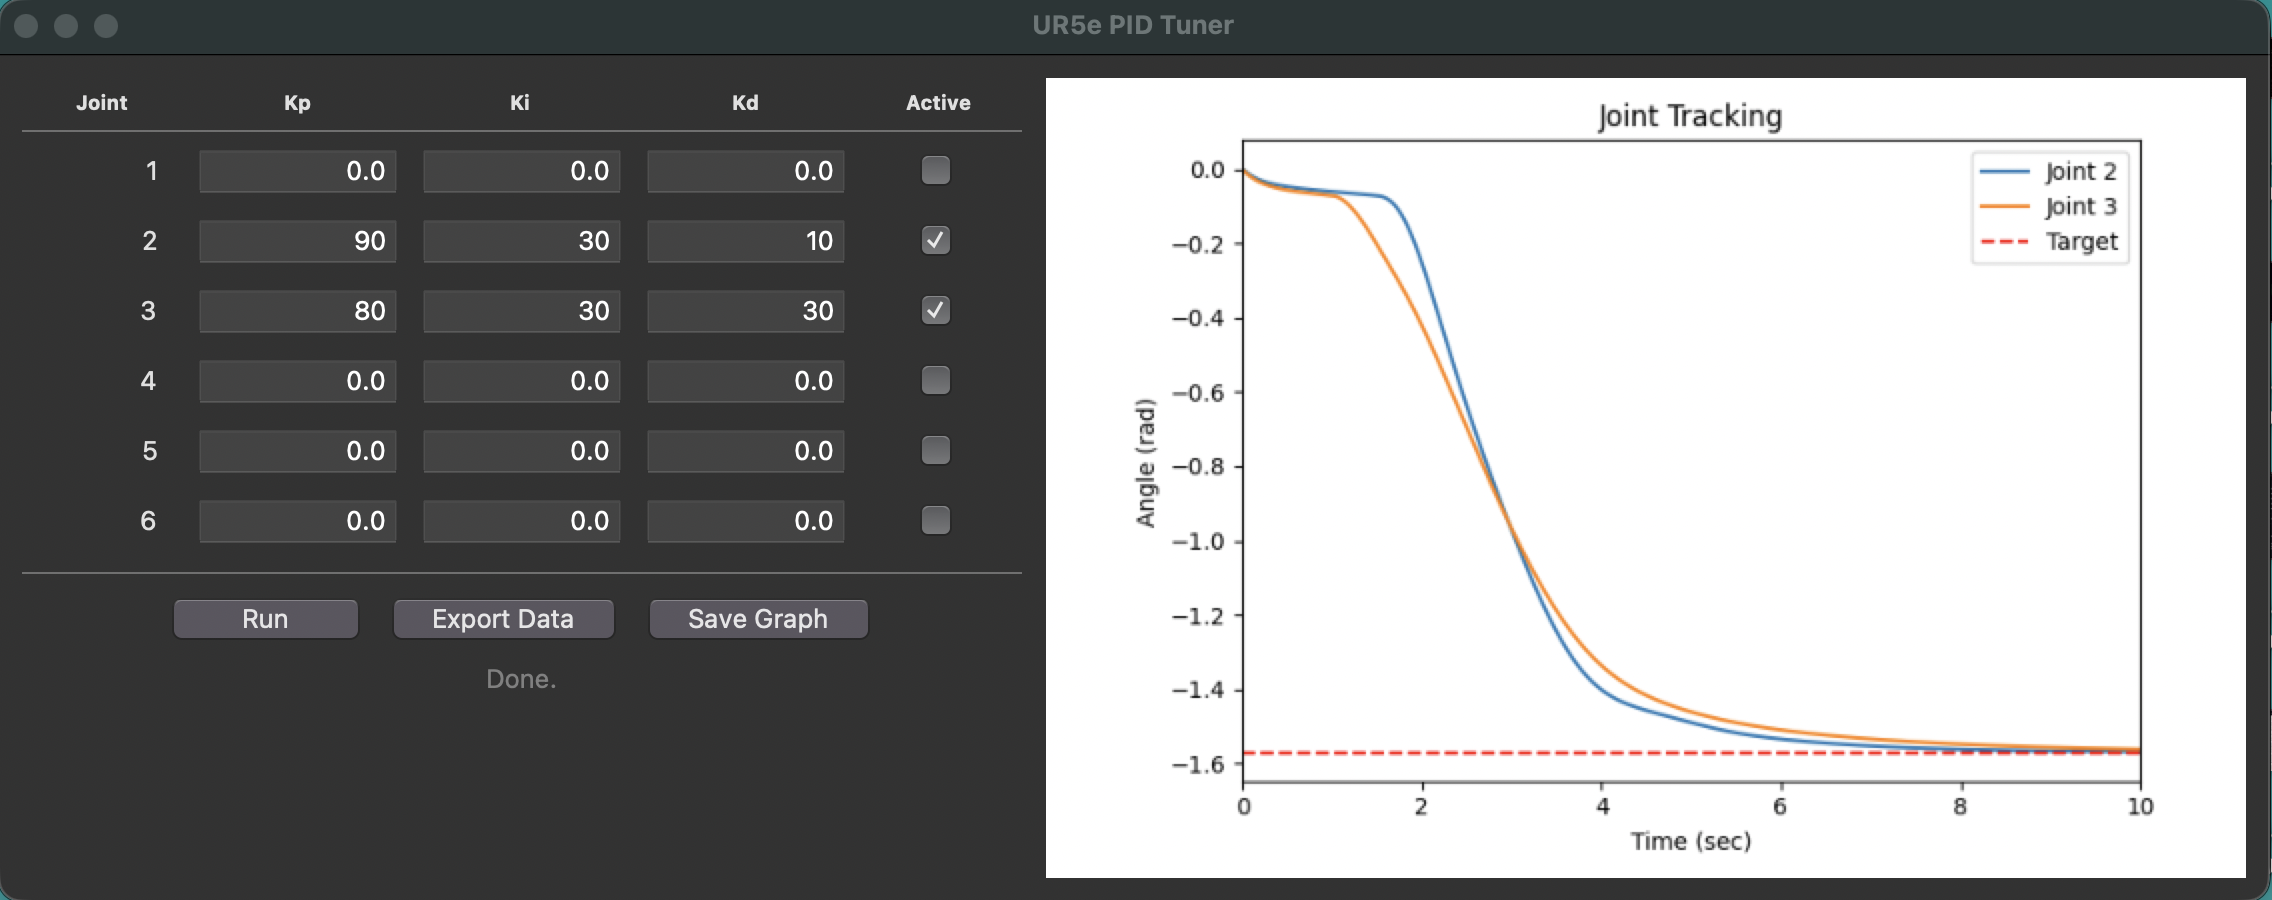
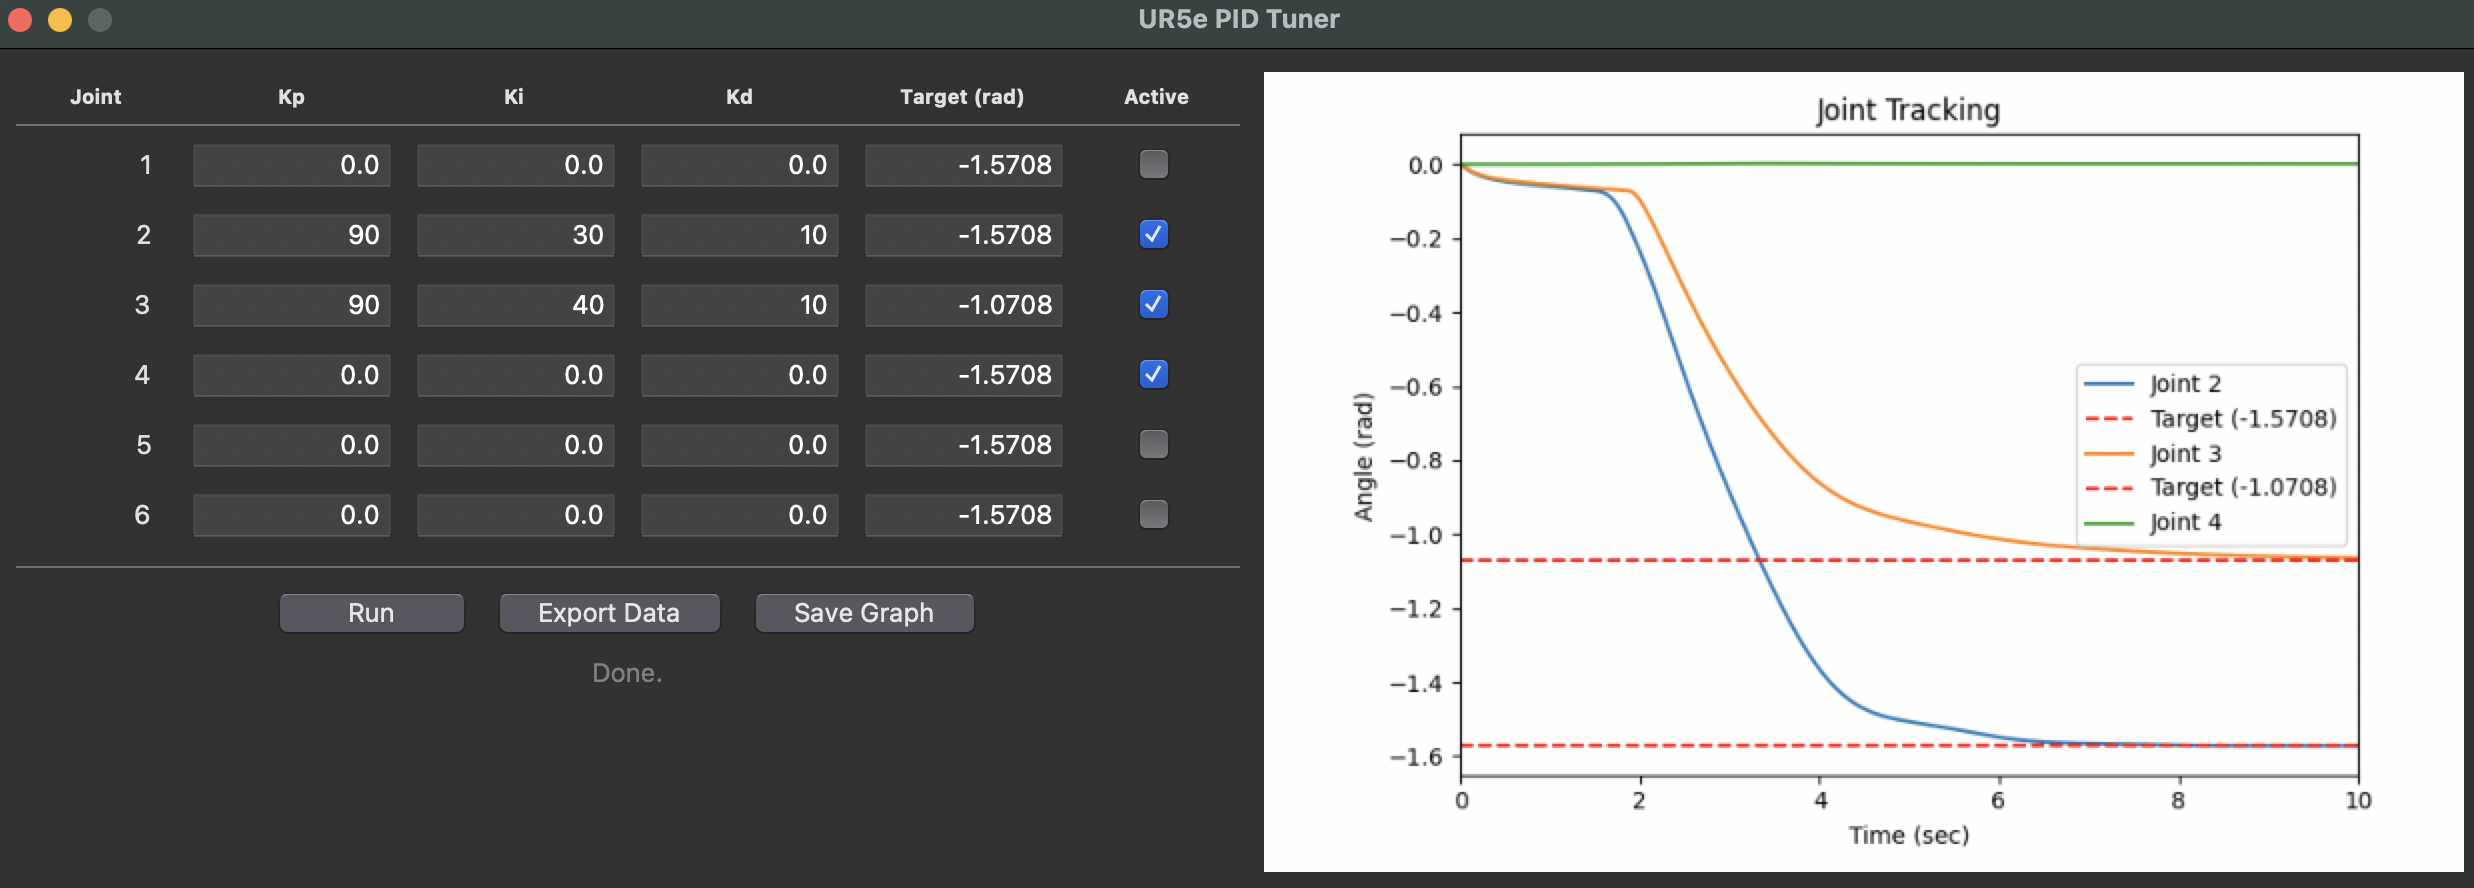
Updated: joint control doc

diff --git a/src/gui.py b/src/gui.py
@@ -16,6 +16,7 @@ from matplotlib.backends.backend_tkagg import FigureCanvasTkAgg
 
 MAIN_PY = os.path.join(os.path.dirname(__file__), "main.py")
 PLOT_TMP = os.path.join(os.path.dirname(__file__), "_gui_tmp_plot.png")
+DATA_TMP = os.path.join(os.path.dirname(__file__), "_gui_tmp_data.csv")
 MJPYTHON = os.path.join(os.path.dirname(sys.executable), "mjpython")
 
 
@@ -83,9 +84,12 @@ class PIDTunerApp:
         self.run_btn = ttk.Button(btn_frame, text="Run", command=self._on_run)
         self.run_btn.pack(side="left", padx=8)
 
-        ttk.Button(btn_frame, text="Export Data", command=self._on_export).pack(
+        ttk.Button(btn_frame, text="Export Gains", command=self._on_export_gains).pack(
             side="left", padx=8
         )
+
+        self.export_data_btn = ttk.Button(btn_frame, text="Export Data", command=self._on_export_data, state="disabled")
+        self.export_data_btn.pack(side="left", padx=8)
 
         self.save_btn = ttk.Button(btn_frame, text="Save Graph", command=self._on_save, state="disabled")
         self.save_btn.pack(side="left", padx=8)
@@ -123,17 +127,20 @@ class PIDTunerApp:
 
         self.run_btn.configure(state="disabled")
         self.save_btn.configure(state="disabled")
+        self.export_data_btn.configure(state="disabled")
         self.status_var.set("Simulation running…")
 
         if os.path.exists(PLOT_TMP):
             os.remove(PLOT_TMP)
+        if os.path.exists(DATA_TMP):
+            os.remove(DATA_TMP)
 
         configs = []
         for j in active:
             r = self.joint_rows[j]
             configs.append(f"{j}:{r['kp'].get()}:{r['ki'].get()}:{r['kd'].get()}:{r['target'].get()}")
 
-        cmd = [MJPYTHON, MAIN_PY, "--joints", ",".join(configs), "--out", PLOT_TMP]
+        cmd = [MJPYTHON, MAIN_PY, "--joints", ",".join(configs), "--out", PLOT_TMP, "--data-out", DATA_TMP]
         self._sim_proc = subprocess.Popen(cmd)
 
         def watch():
@@ -168,13 +175,15 @@ class PIDTunerApp:
         self._last_plot_path = PLOT_TMP
         self.run_btn.configure(state="normal")
         self.save_btn.configure(state="normal")
+        if os.path.exists(DATA_TMP):
+            self.export_data_btn.configure(state="normal")
         self.status_var.set("Done.")
 
     def _on_error(self, msg):
         self.status_var.set(f"Error: {msg}")
         self.run_btn.configure(state="normal")
 
-    def _on_export(self):
+    def _on_export_gains(self):
         path = filedialog.asksaveasfilename(
             defaultextension=".csv",
             filetypes=[("CSV files", "*.csv")],
@@ -188,6 +197,20 @@ class PIDTunerApp:
             for j in range(1, 7):
                 r = self.joint_rows[j]
                 writer.writerow([j, r["kp"].get(), r["ki"].get(), r["kd"].get(), r["target"].get()])
+        self.status_var.set(f"Exported → {os.path.basename(path)}")
+
+    def _on_export_data(self):
+        if not os.path.exists(DATA_TMP):
+            self.status_var.set("No simulation data to export.")
+            return
+        path = filedialog.asksaveasfilename(
+            defaultextension=".csv",
+            filetypes=[("CSV files", "*.csv")],
+            initialfile=f"sim_data_{datetime.now().strftime('%Y%m%d_%H%M%S')}.csv",
+        )
+        if not path:
+            return
+        shutil.copy2(DATA_TMP, path)
         self.status_var.set(f"Exported → {os.path.basename(path)}")
 
     def _on_save(self):

diff --git a/src/main.py b/src/main.py
@@ -1,4 +1,5 @@
 import argparse
+import csv
 import os
 
 import matplotlib
@@ -17,6 +18,7 @@ def main():
     parser.add_argument("--joints", type=str, required=True,
                         help="Comma-separated configs: joint:kp:ki:kd,...")
     parser.add_argument("--out", type=str, default=None, help="Output plot path")
+    parser.add_argument("--data-out", type=str, default=None, help="Output CSV data path")
     args = parser.parse_args()
 
     # Parse "1:100:10:5:-1.5708,3:50:5:2:-1.5708" → list of (0-based idx, kp, ki, kd, target)
@@ -67,7 +69,20 @@ def main():
             if count == steps_total and not plot_saved:
                 out_path = args.out or os.path.join(os.path.dirname(__file__), "matplotlib_graph.png")
                 _save_plot(dt, collect, joint_configs, out_path)
+                if args.data_out:
+                    _save_csv(dt, collect, joint_configs, args.data_out)
                 plot_saved = True
+
+
+def _save_csv(dt, collect, joint_configs, out_path):
+    steps = max(len(v) for v in collect.values())
+    x_values = [i * dt for i in range(steps)]
+    headers = ["time"] + [f"joint_{idx + 1}" for idx, *_ in joint_configs]
+    with open(out_path, "w", newline="") as f:
+        writer = csv.writer(f)
+        writer.writerow(headers)
+        for i, t in enumerate(x_values):
+            writer.writerow([t] + [collect[idx][i] for idx, *_ in joint_configs])
 
 
 def _save_plot(dt, collect, joint_configs, out_path):

diff --git a/docs/task1_joint_control.md b/docs/task1_joint_control.md
@@ -1,4 +1,4 @@
-## Task 1 Objectives
+## Task 1 (Joint Control) Objectives
 
 - Install MuJoCo and load the UR5e model from MuJoCo Menagerie.
 - Design one simple target object in Fusion360, then export it to MJCF or URDF using a tool such as fusion2urdf, and place it in the MuJoCo scene.
@@ -43,6 +43,8 @@ Where:
 
 The error will be calculated by taking the difference of the target and current position. The gains of $K_p$, $K_i$, and $K_d$ are the parameters I will be adjusting to tune the UR5e robot.
 
+https://ctms.engin.umich.edu/CTMS/index.php?example=Introduction&section=ControlPID
+
 ---
 
 ## Tuning Gains Kp, Ki, Kd
@@ -77,12 +79,62 @@ This confirmed my oscillation observations from earlier.
 
 ### GUI
 
-Up to this point, I had been hardcoding the values of the gains of each joint one at a time. This was not going to be a viable solution if I was going to keep track of all gains of each joint. A quick search for a third party software that graphs and organizes my data did not yield a result that met my needs. So far, Matplotlib was the best solution for collecting and graphing data with python. Therefore, with the help of AI, I created a simple GUI around my graphing functions.
+Up to this point, I had been hardcoding the values of the gains of each joint one at a time. This was not going to be a viable solution if I was going to keep track of all gains of each joint. A quick search for a third party software that graphs and organizes my data did not yield a result that met my needs. Therefore, with the help of AI, I created a simple GUI around my graphing functions.
 
 ![GUI](images/gui.png)
 
+The new GUI allows each joint of the 6 dof robot to have adjustable PID gains, an adjustable target position, and a activation state (allows me to activate any combination of joints). The graph also now plots all activated joints.
 
-The new GUI allows me to 
+### Tuning
+
+For consistency, I chose all joints to have a target positon of -1.5708 rad. This position allows me to easily observe any oscillations that may occur while lessening the risk of the arm hitting the ground. Also, for this first stage, only 1 joint will be activated at a time while all other joints set to the default 0 rad position.
+
+I seperated the 6 joints into 2 categories: joints that would be fighting gravity (categority 1) and joints that would not (category 2). I chose to tune the joints that would be fighting gravity on activation first (joints 2, 3, 4, and 6).
+
+Of the category 1 joints, I chose to tune joint 2 first because it has the greateset moment of inertia (I = mr^2).
+
+The first method I tried was the Ziegler–Nichols tuning method. This method first sets the I and D gains to zero. The P gain is then slowly increased from zero until it reaches a state where the output has stable steady state oscillations. The P gain associated with this state is called the ultimate gain, $K_u$. Next the oscillation period $T_u$ is found. Using $K_u$ and $T_u$, Kp, Ki, and Kd are set.
+
+![Ziegler–Nichols Method](images/Ziegler–Nichols_method.png)
+
+https://en.wikipedia.org/wiki/Ziegler%E2%80%93Nichols_method
+
+The steady state oscillations started at 140. I first tried using the PD equations; however, no matter how high the D term was, the arm never reached it's target postion. I believe this was due to the heavy mass of the arm and the fact that this heavy arm is fighting gravity on its way up.
+
+![Joint 2 Kp = 140](images/joint2_Kp140.png)
+
+![Joint 2 Kd = 1000](images/joint2_Kd1000.png)
+
+The arm was not reaching its target postion, so I tried adjusting the Integral term by calculating its classic PID values from the table above.
+
+Using collected data, I found the period of oscillation, Tu, to be 0.984 sec.
+
+Ku = 140
+Tu ~ 1
+Kp = 0.6Ku = 84
+Ki = (1.2Ku) / Tu = 168
+Kd = 0.075KuTu = 10.5
+
+The result was another steady state oscillations. I noticed two problems about the movement of the arm. It had a sluggish start at the beginning and the steady oscillations.
+
+![Ziegler Oscillations](images/Ziegler_oscillations.png)
+
+I was able turn the steady oscillation into a damped oscillation by increasing the derivative term to 50.
+
+![Damped Oscillation](images/damped_oscillation.png)
+
+The next problem I solved was the sluggish start. Ziegler-Nicholas method did not account for the large mass the joint would be moving. Therefore I increased the Proportional gain. Kp = 250. This made a dramatic improvement. This removed the sluggish start and removed any oscillations and overshooting.
+
+![Kp = 250](images/Kp_increase.png)
+
+The next step was just seeing how far I could increase the Integral term without the output overshooting the target. The experimental value was Ki = 190.
+
+![Ki = 190](images/Kp_increase.png)
+
+The final gains for joint 2 were the following: Kp = 220, Ki = 190, Kd = 50.
+
+
+
 ---
 
 ## Plan to track data and optimize gains